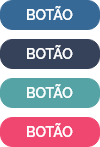
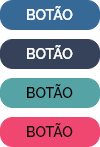
#35 Update style guide components

Changed region(s): [[0.27, 0.8163, 0.75, 0.9524], [0.27, 0.5714, 0.75, 0.6803]]

diff --git a/docs/style-guide.md b/docs/style-guide.md
@@ -11,6 +11,7 @@
 | 12/09/2019 | 0.1.1 | Adição da justificativa do nome da aplicação | Hugo Sobral de Lima Salomão |
 | 13/09/2019 | 0.2 | Adição de componentes e contraste da paleta de cores | Fabíola |
 | 13/09/2019 | 0.3 | Ajuste do slide da apresentação da identidade visual | Leonardo da Silva Gomes |
+| 13/09/2019 | 0.4 | Ajuste de texto dos componentes e cores | Fabíola |
 
 # 1. Introdução
 
@@ -61,6 +62,8 @@ Coloca-se no css, para a utilização das fontes:
 
 As cores foram selecionadas observando características do produto e sua finalidade, bem como a acessibilidade, testando-se o contraste. A ferramenta utilizada para construi-la foi [coolors](https://coolors.co/376996-56a3a6-364259-ef476f-edc841). 
 
+A cor primária é a cor #376996, e a cor secundária #56a3a6. A cor #ef476f é acento.
+
 Ainda, em relação ao contraste, foram feitos testes e é recomendado ter estes números em mente para utilização das cores.
 
 <img src="img/contraste1.png" alt="contraste" width="200"/>
@@ -79,15 +82,20 @@ Ainda, em relação ao contraste, foram feitos testes e é recomendado ter estes
 
 ## 4.1. Botões
 
-![contraste](img/botoes.png)
+Existem botões utilizando as diferentes cores da paleta, a depender do uso. O botão comum de confirmação é da cor primária. Os botões são arredondados (raio de 12 px) com texto escrito utilizando a fonte Raleway tamanho 14pt, semibold, todas letras maiúsculas. Observa-se ainda a cor da palavra escrita, a depender da cor do botão, para cumprir o contraste.
+
+![botoes](img/botoes.png)
 
 ## 4.2. Campos de formulários
 
-![contraste](img/campos.png)
+O texto acima do formulário, de label, é na fonte Raleway, tamanho 12 pt, regular, na cor primária,com uma margem de 20px a esquerda, em relação ao campo.
+O campo possui raio de 12px arredondado, e bordas na cor primária.
+
+![campos](img/campos.png)
 
 ## 4.3. Navbar
 
-
+Apresenta-se a seguir algumas opções para serem analizadas e decididas, para navbar.
 
 ### Para celular
 
